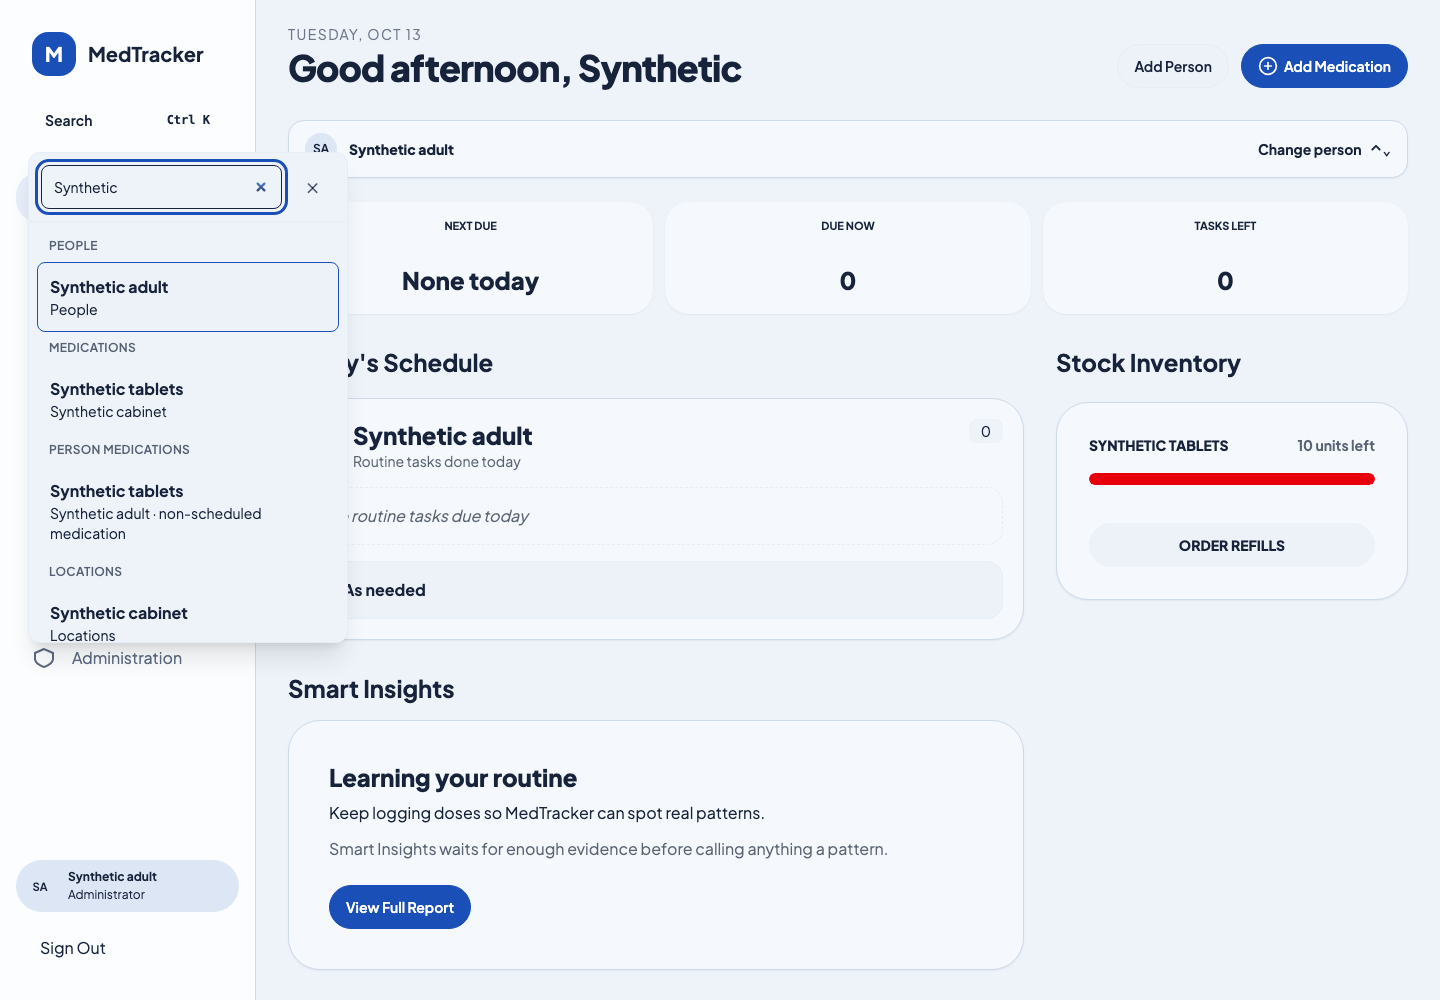
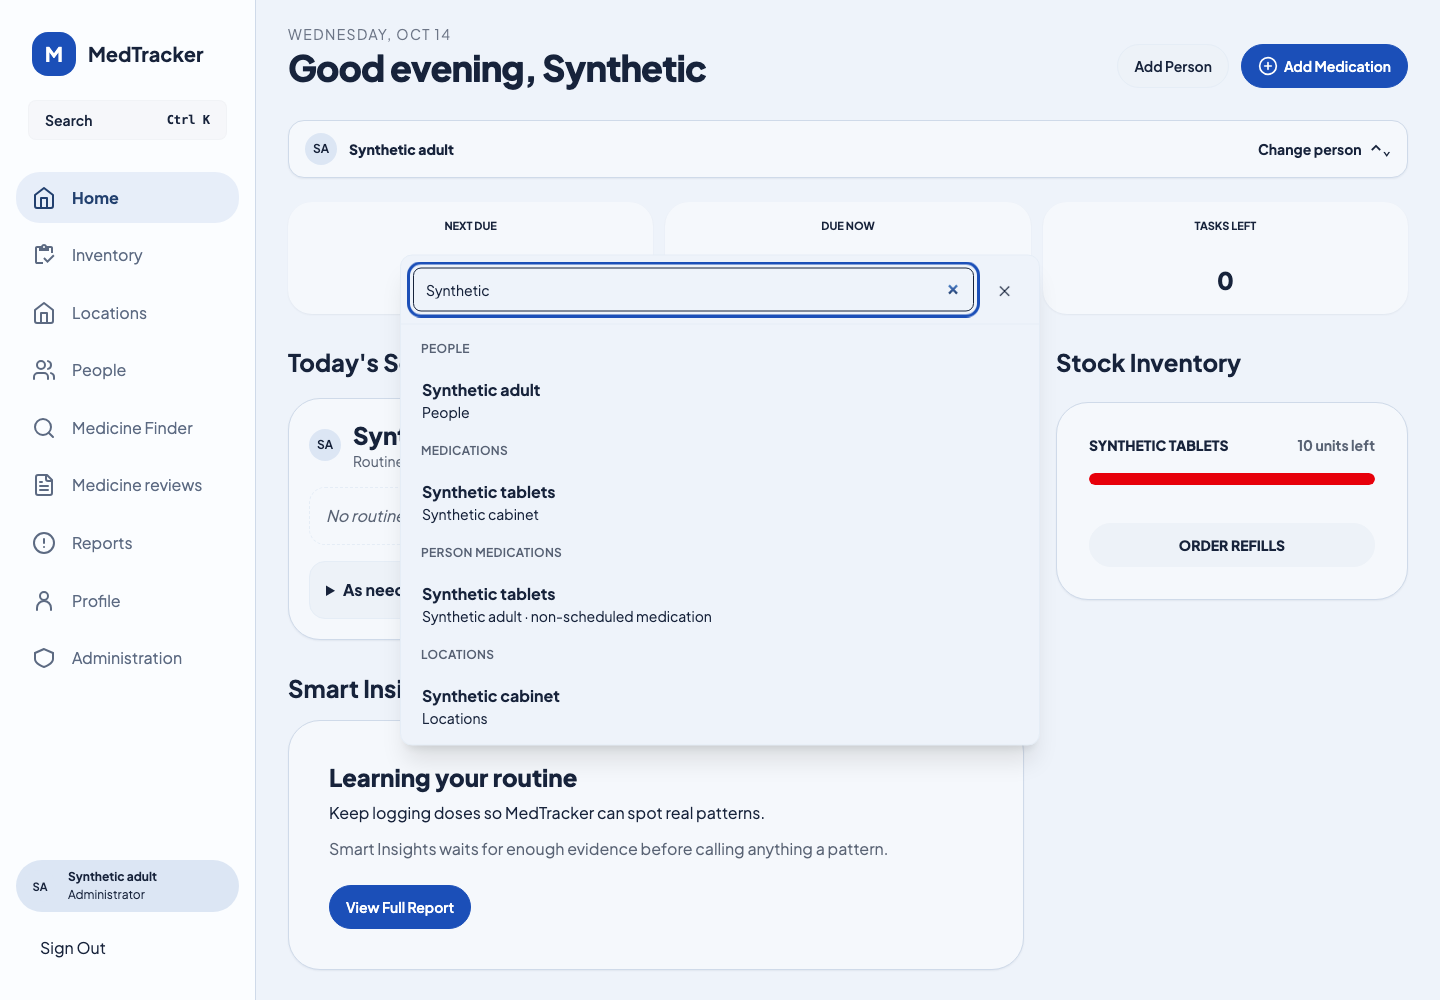
fix(search): centre the global search panel

diff --git a/assets/static/js/global-search.js b/assets/static/js/global-search.js
@@ -77,19 +77,11 @@
     clearTimeout(timer);
   }
 
-  function position(trigger) {
-    const margin = 16;
-    if (innerWidth < 640 || !trigger) {
-      panel.style.left = `${margin}px`;
-      panel.style.top = '70px';
-      panel.style.width = `${innerWidth - margin * 2}px`;
-      return;
-    }
-    const rect = trigger.getBoundingClientRect();
-    const left = Math.max(margin, rect.left);
-    panel.style.left = `${left}px`;
-    panel.style.top = `${rect.bottom + 12}px`;
-    panel.style.width = `${Math.min(Math.max(rect.width, 320), innerWidth - left - margin)}px`;
+  function position() {
+    panel.style.left = '50%';
+    panel.style.top = '50%';
+    panel.style.width = 'min(40rem, calc(100vw - 2rem))';
+    panel.style.transform = 'translate(-50%, -50%)';
   }
 
   function open(event) {
@@ -100,8 +92,7 @@
     }
     const clickedTrigger = event?.currentTarget instanceof Element ? event.currentTarget : undefined;
     opener = clickedTrigger || document.activeElement;
-    const trigger = clickedTrigger || triggers.find(button => button.getClientRects().length);
-    position(trigger);
+    position();
     panel.hidden = false;
     panel.setAttribute('aria-hidden', 'false');
     triggers.forEach(button => button.setAttribute('aria-expanded', 'true'));
